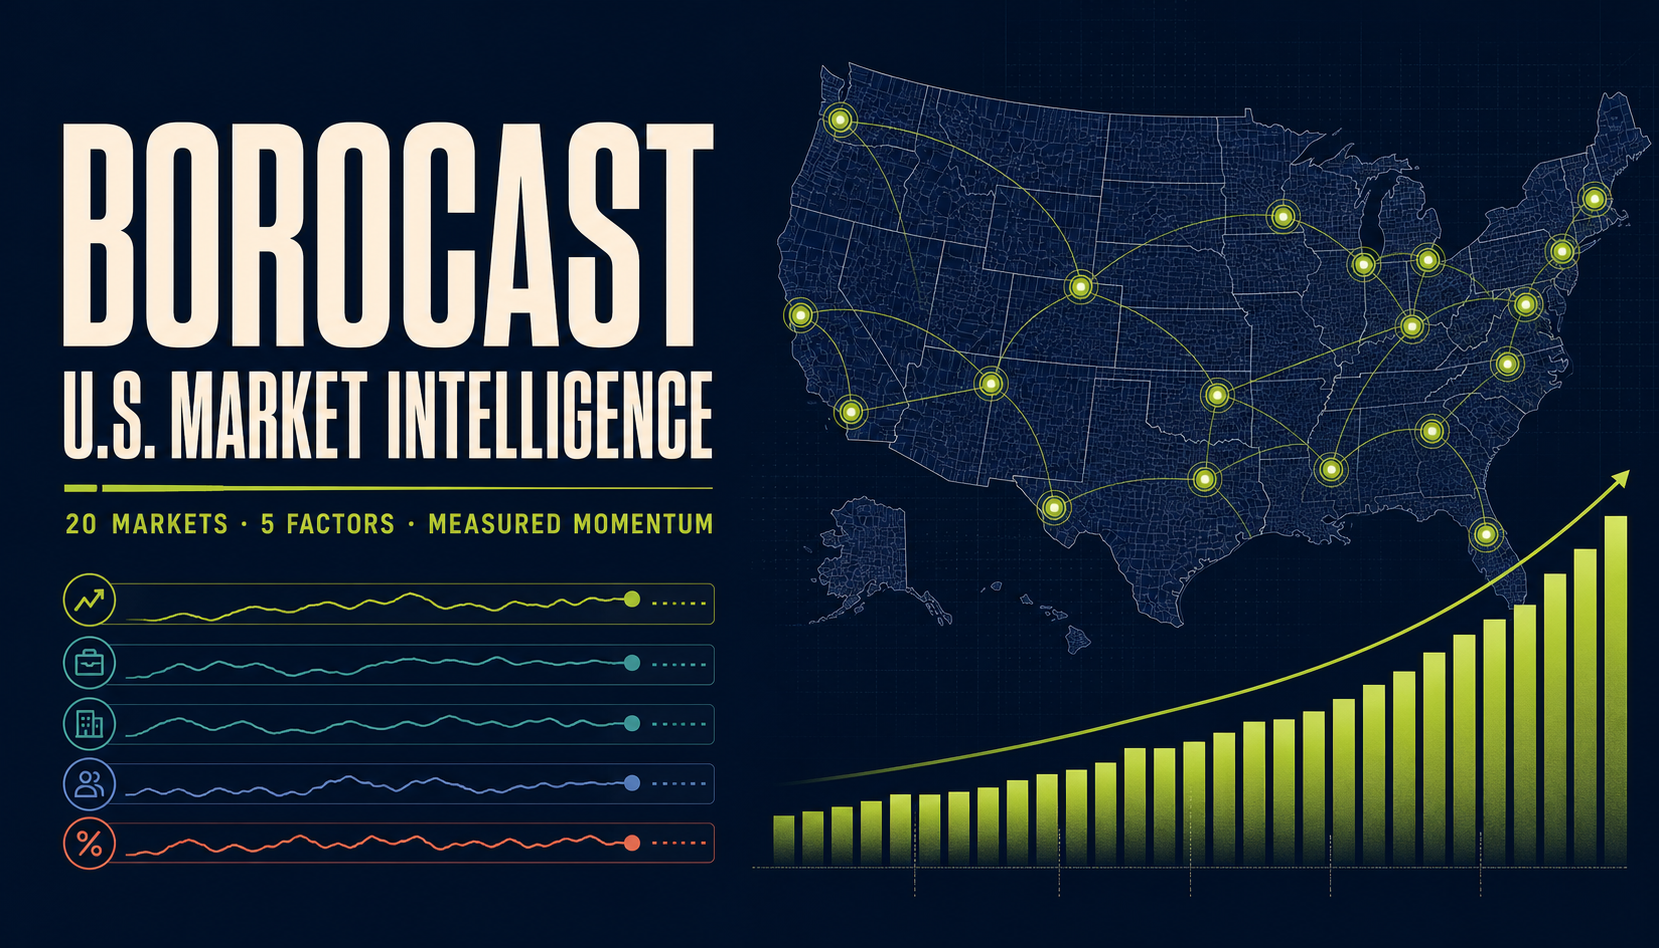
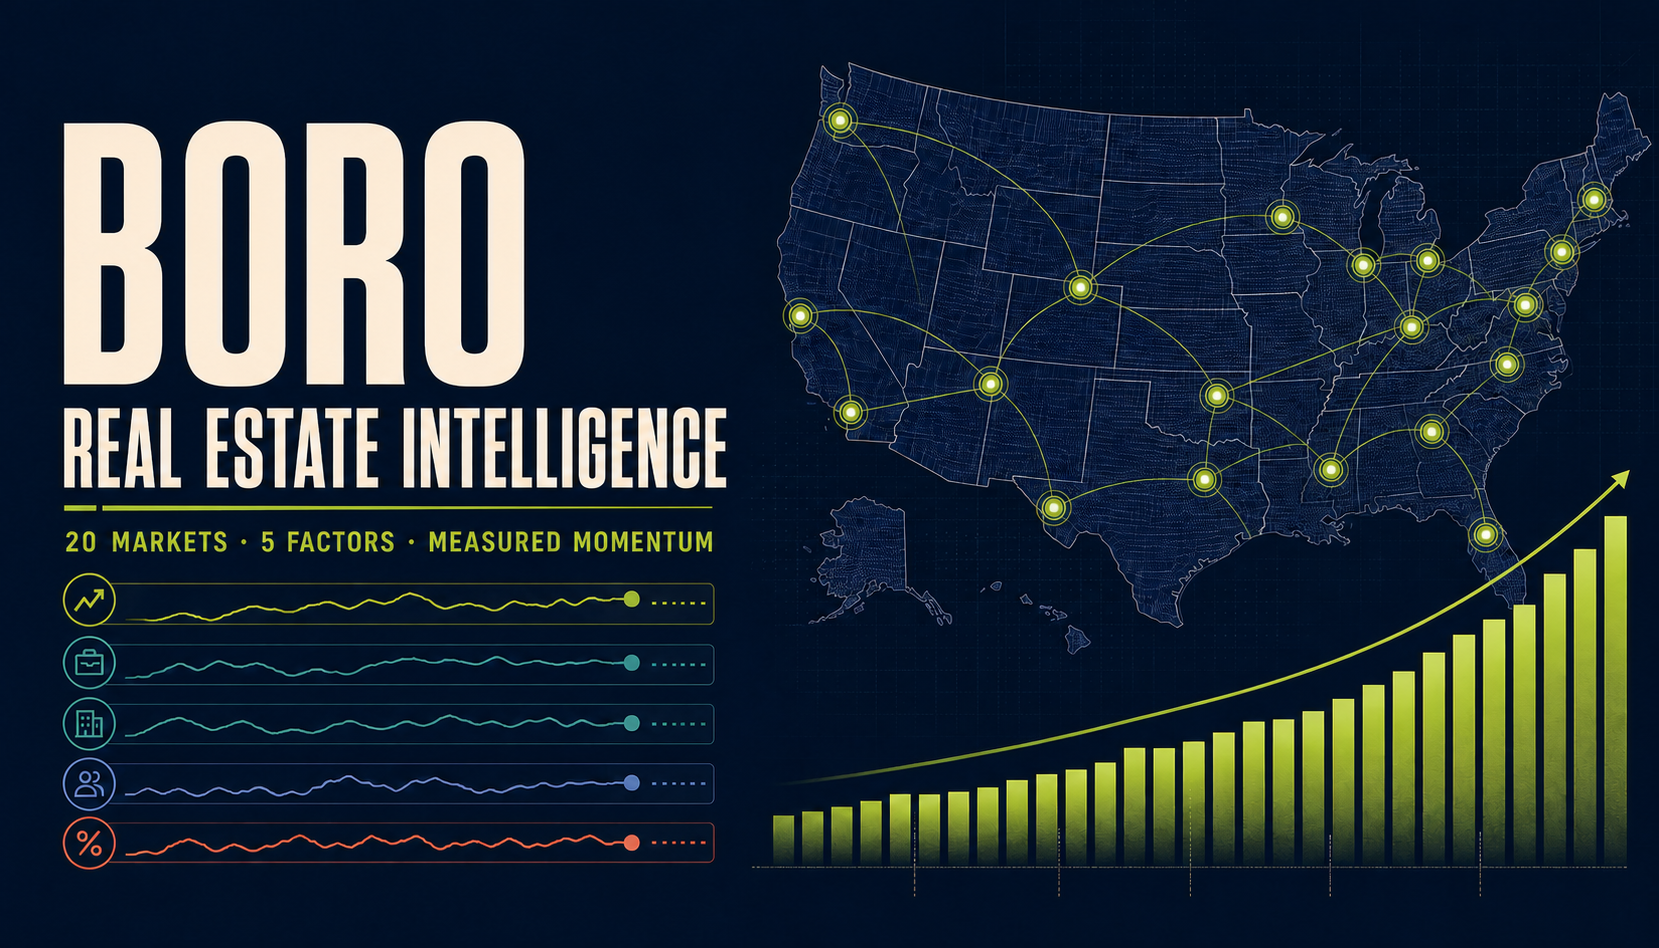
Rebrand product as BORO

diff --git a/worker/index.ts b/worker/index.ts
@@ -430,9 +430,9 @@ function safeEqual(left: string, right: string) {
 }
 
 function reviewLoginHtml() {
-  return `<!doctype html><html lang="en"><head><meta charset="utf-8"><meta name="viewport" content="width=device-width,initial-scale=1"><meta name="robots" content="noindex,nofollow"><title>Private review · Borocast</title><style>
+  return `<!doctype html><html lang="en"><head><meta charset="utf-8"><meta name="viewport" content="width=device-width,initial-scale=1"><meta name="robots" content="noindex,nofollow"><title>Private review · BORO</title><style>
   *{box-sizing:border-box}body{margin:0;min-height:100vh;display:grid;place-items:center;background:#071a38;color:#fff;font-family:Arial,sans-serif}main{width:min(92vw,470px);padding:48px;border:1px solid #304762;background:#0b2244;box-shadow:0 30px 90px #020b1b}i{display:block;width:12px;height:12px;margin-bottom:35px;border-radius:50%;background:#d9ff55;box-shadow:0 0 0 8px rgba(217,255,85,.08)}span{color:#70dfcc;font-size:10px;font-weight:900;letter-spacing:.13em}h1{margin:15px 0 16px;font-size:42px;line-height:.95;letter-spacing:-.055em}p{margin:0 0 28px;color:#a7b6c9;font-size:13px;line-height:1.65}label{display:block;color:#8fa0b6;font-size:9px;font-weight:900;letter-spacing:.08em;text-transform:uppercase}input{width:100%;height:50px;margin:9px 0 12px;padding:0 14px;border:1px solid #405674;background:#071a38;color:white;font:inherit;outline:0}input:focus{border-color:#d9ff55}button{width:100%;height:50px;border:0;background:#d9ff55;color:#071a38;font-size:10px;font-weight:900;letter-spacing:.08em;text-transform:uppercase}button:disabled{opacity:.6}b{display:block;min-height:16px;margin-top:14px;color:#ff958d;font-size:10px}@media(max-width:520px){main{padding:35px 26px}h1{font-size:36px}}
-  </style></head><body><main><i></i><span>BOROCAST · INVITED REVIEW</span><h1>Private B-school<br>MVP review</h1><p>Enter the shared review password to explore the market-intelligence workbench and leave structured feedback.</p><form><label for="password">Review password</label><input id="password" name="password" type="password" autocomplete="current-password" autofocus required><button>Enter private MVP →</button><b role="alert"></b></form></main><script>
+  </style></head><body><main><i></i><span>BORO · INVITED REVIEW</span><h1>Private B-school<br>MVP review</h1><p>Enter the shared review password to explore the real estate intelligence workbench and leave structured feedback.</p><form><label for="password">Review password</label><input id="password" name="password" type="password" autocomplete="current-password" autofocus required><button>Enter private MVP →</button><b role="alert"></b></form></main><script>
   const form=document.querySelector('form'),button=document.querySelector('button'),error=document.querySelector('b');form.addEventListener('submit',async(event)=>{event.preventDefault();button.disabled=true;error.textContent='';try{const response=await fetch('/api/review/login',{method:'POST',headers:{'Content-Type':'application/json'},body:JSON.stringify({password:form.password.value})});const result=await response.json();if(!response.ok)throw new Error(result.error||'Could not sign in.');location.reload()}catch(reason){error.textContent=reason.message||'Could not sign in.';button.disabled=false}});
   </script></body></html>`;
 }
@@ -788,7 +788,7 @@ const worker = {
       if (!address1 || !address2) return Response.json({ error: "address1 and address2 are required" }, { status: 400 });
       try {
         const property = await fetchAttomProperty(env.ATTOM_API_KEY, address1, address2);
-        return Response.json({ provider: "ATTOM", retrievedAt: new Date().toISOString(), property, use: "Independent vendor cross-check. Borocast does not substitute ATTOM's AVM for its public-record anchors or average correlated estimates blindly." }, { headers: { "Cache-Control": "private, no-store" } });
+        return Response.json({ provider: "ATTOM", retrievedAt: new Date().toISOString(), property, use: "Independent vendor cross-check. BORO does not substitute ATTOM's AVM for its public-record anchors or average correlated estimates blindly." }, { headers: { "Cache-Control": "private, no-store" } });
       } catch (error) {
         return Response.json({ error: error instanceof Error ? error.message : "ATTOM property not found" }, { status: 502, headers: { "Cache-Control": "private, no-store" } });
       }
@@ -816,7 +816,7 @@ const worker = {
         }
       }));
       const matched = records.filter((record) => record.status === "matched").length;
-      return Response.json({ provider: "ATTOM", retrievedAt: new Date().toISOString(), marketIds, requested: records.length, matched, failed: records.length - matched, records, boundary: "This audit measures vendor availability and agreement. It does not retrain or average into the Borocast public-record model." }, { headers: { "Cache-Control": "private, no-store" } });
+      return Response.json({ provider: "ATTOM", retrievedAt: new Date().toISOString(), marketIds, requested: records.length, matched, failed: records.length - matched, records, boundary: "This audit measures vendor availability and agreement. It does not retrain or average into the BORO public-record model." }, { headers: { "Cache-Control": "private, no-store" } });
     }
 
     if (url.pathname === "/api/public-safety/local") {

diff --git a/app/review-repository/FeedbackRepository.tsx b/app/review-repository/FeedbackRepository.tsx
@@ -95,12 +95,12 @@ export function FeedbackRepository({ ownerEmail }: { ownerEmail: string }) {
   const features = useMemo(() => Array.from(new Set(repository?.entries.map((entry) => entry.featureArea) ?? [])).sort(), [repository]);
   const visible = useMemo(() => (repository?.entries ?? []).filter((entry) => (bucket === "all" || entry.failureModes.includes(bucket)) && (statusFilter === "all" || entry.triageStatus === statusFilter) && (featureFilter === "all" || entry.featureArea === featureFilter)), [repository, bucket, statusFilter, featureFilter]);
 
-  if (access === "loading") return <main className="repository-lock"><span>BOROCAST · OWNER REPOSITORY</span><h1>Loading feedback…</h1></main>;
-  if (access === "locked") return <main className="repository-lock"><span>BOROCAST · OWNER REPOSITORY</span><h1>Identity verified. Complete step two.</h1><p>Signed in as {ownerEmail}. Enter the reset owner password to view reviewer identities, comments and triage status.</p><form onSubmit={unlock}><label htmlFor="owner-password">Owner password · step 2 of 2</label><input id="owner-password" name="password" type="password" autoComplete="current-password" required /><button>Open repository →</button><b role="alert">{message}</b></form><Link href="/">← Back to Borocast</Link></main>;
+  if (access === "loading") return <main className="repository-lock"><span>BORO · OWNER REPOSITORY</span><h1>Loading feedback…</h1></main>;
+  if (access === "locked") return <main className="repository-lock"><span>BORO · OWNER REPOSITORY</span><h1>Identity verified. Complete step two.</h1><p>Signed in as {ownerEmail}. Enter the reset owner password to view reviewer identities, comments and triage status.</p><form onSubmit={unlock}><label htmlFor="owner-password">Owner password · step 2 of 2</label><input id="owner-password" name="password" type="password" autoComplete="current-password" required /><button>Open repository →</button><b role="alert">{message}</b></form><Link href="/">← Back to BORO</Link></main>;
   if (access === "error" || !repository) return <main className="repository-lock"><h1>Repository unavailable.</h1><p>{message}</p><button onClick={() => void load()}>Try again</button></main>;
 
   return <main className="feedback-repository">
-    <header><div><Link href="/">BOROCAST</Link><span>Owner workspace</span></div><button onClick={() => void load()}>Refresh</button></header>
+    <header><div><Link href="/">BORO</Link><span>Owner workspace</span></div><button onClick={() => void load()}>Refresh</button></header>
     <section className="repository-hero"><div><p>FEEDBACK REPOSITORY · FAILURE-MODE TRIAGE</p><h1>Turn comments into<br />testable decisions.</h1></div><aside><b>Model change rule</b><p>Qualitative feedback creates a review candidate—not a score change. Reproduce the issue, audit the affected data, define a measurable hypothesis, and backtest before changing weights or rankings.</p></aside></section>
     <section className="repository-metrics"><article><span>Total responses</span><b>{repository.summary.total}</b></article><article><span>Usefulness</span><b>{repository.summary.averageUsefulness.toFixed(1)}<i>/5</i></b></article><article><span>Evidence trust</span><b>{repository.summary.averageTrust.toFixed(1)}<i>/5</i></b></article><article><span>Workflow clarity</span><b>{repository.summary.averageClarity.toFixed(1)}<i>/5</i></b></article><article className="attention"><span>Model-review candidates</span><b>{repository.summary.modelReviewCount}</b></article><article><span>Would use stronger version</span><b>{repository.summary.wouldUseCount}</b></article></section>
     <section className="failure-buckets"><div className="repository-title"><div><p>FAILURE-MODE BUCKETS</p><h2>Where confidence breaks.</h2></div><span>Click a bucket to filter the review queue.</span></div><div><button className={bucket === "all" ? "active" : ""} onClick={() => setBucket("all")}><b>{repository.summary.total}</b><span>All feedback</span><small>Full repository</small></button>{repository.buckets.map((item) => <button key={item.id} className={bucket === item.id ? "active" : ""} onClick={() => setBucket(item.id)}><b>{item.count}</b><span>{item.label}</span><small>{label(item.lane)}</small></button>)}</div></section>

diff --git a/app/AttomMarketAudit.tsx b/app/AttomMarketAudit.tsx
@@ -66,8 +66,8 @@ export function AttomMarketAudit() {
   })) : [];
 
   return <div className="attom-audit">
-    <div className="attom-audit-head"><div><p className="eyebrow">ATTOM MARKET AUDIT · SIX CONTROL ADDRESSES</p><h3>Test the vendor against our evidence—not in place of it.</h3><p>Two qualified public records per live market are checked for address match, AVM availability, range overlap and disagreement with the Borocast model.</p></div><button onClick={runAudit} disabled={!connected || loading}>{loading ? "Auditing six properties…" : result ? "Run audit again" : connected ? "Launch ATTOM analysis" : "ATTOM key required"}</button></div>
+    <div className="attom-audit-head"><div><p className="eyebrow">ATTOM MARKET AUDIT · SIX CONTROL ADDRESSES</p><h3>Test the vendor against our evidence—not in place of it.</h3><p>Two qualified public records per live market are checked for address match, AVM availability, range overlap and disagreement with the BORO model.</p></div><button onClick={runAudit} disabled={!connected || loading}>{loading ? "Auditing six properties…" : result ? "Run audit again" : connected ? "Launch ATTOM analysis" : "ATTOM key required"}</button></div>
     {error && <p className="attom-error">{error}</p>}
-    {result && <><div className="attom-audit-summary"><div><span>Matched</span><b>{result.matched}/{result.requested}</b></div><div><span>Failed</span><b>{result.failed}</b></div><div><span>Range agreement</span><b>{result.matched ? Math.round(result.records.filter((record) => record.rangeOverlap).length / result.matched * 100) : 0}%</b></div><small>Retrieved {new Date(result.retrievedAt).toLocaleString()} · live vendor responses are session evidence and are not written into the public-record model.</small></div><div className="attom-audit-markets">{byMarket.map((market) => <article key={market.marketId}><span>{market.label}</span>{market.rows.map((record) => <div key={record.id} className={record.status}><b>{record.address}</b><strong>{record.status === "matched" ? money(record.attomValue) : "No match"}</strong><small>{record.status === "matched" ? `${record.deltaPct && record.deltaPct > 0 ? "+" : ""}${record.deltaPct ?? "—"}% vs. Borocast · ${record.rangeOverlap ? "ranges overlap" : "ranges disagree"}` : record.error}</small></div>)}</article>)}</div></>}
+    {result && <><div className="attom-audit-summary"><div><span>Matched</span><b>{result.matched}/{result.requested}</b></div><div><span>Failed</span><b>{result.failed}</b></div><div><span>Range agreement</span><b>{result.matched ? Math.round(result.records.filter((record) => record.rangeOverlap).length / result.matched * 100) : 0}%</b></div><small>Retrieved {new Date(result.retrievedAt).toLocaleString()} · live vendor responses are session evidence and are not written into the public-record model.</small></div><div className="attom-audit-markets">{byMarket.map((market) => <article key={market.marketId}><span>{market.label}</span>{market.rows.map((record) => <div key={record.id} className={record.status}><b>{record.address}</b><strong>{record.status === "matched" ? money(record.attomValue) : "No match"}</strong><small>{record.status === "matched" ? `${record.deltaPct && record.deltaPct > 0 ? "+" : ""}${record.deltaPct ?? "—"}% vs. BORO · ${record.rangeOverlap ? "ranges overlap" : "ranges disagree"}` : record.error}</small></div>)}</article>)}</div></>}
   </div>;
 }

diff --git a/app/page.tsx b/app/page.tsx
@@ -213,8 +213,8 @@ export default function Home() {
   return (
     <main id="top">
       <header className="topbar product-topbar">
-        <a className="brand" href="#overview" aria-label="Borocast home" onClick={() => setActiveView("overview")}><span>BORO</span>CAST</a>
-        <span className="product-label">Market intelligence</span>
+        <a className="brand" href="#overview" aria-label="BORO home" onClick={() => setActiveView("overview")}><span>BORO</span></a>
+        <span className="product-label">Real Estate Intelligence</span>
         <label className="global-market-picker"><span>Market</span><select value={market.id} onChange={(event) => chooseMarket(event.target.value)}>{MARKET_EXPLORERS.map((item) => <option key={item.id} value={item.id}>{item.metro.short}</option>)}</select></label>
         <nav className="product-tabs" aria-label="Product features">{PRODUCT_TABS.map((tab) => <button key={tab.id} aria-pressed={activeView === tab.id} className={activeView === tab.id ? "active" : ""} onClick={() => selectView(tab.id)}>{tab.label}</button>)}</nav>
       </header>
@@ -238,7 +238,7 @@ export default function Home() {
       </section>
 
       <section className="product-overview" id="overview">
-        <div className="section-title"><div><p className="eyebrow">PRODUCT OVERVIEW · FROM SIGNAL TO MEMO</p><h2>One workflow.<br />Five explicit decisions.</h2></div><p>Borocast is an evidence-first screening and underwriting workbench. It helps an investor narrow markets, inspect local fundamentals, challenge a property value, model an actual deal and document why it should advance—or stop.</p></div>
+        <div className="section-title"><div><p className="eyebrow">PRODUCT OVERVIEW · FROM SIGNAL TO MEMO</p><h2>One workflow.<br />Five explicit decisions.</h2></div><p>BORO is an evidence-first screening and underwriting workbench. It helps an investor narrow markets, inspect local fundamentals, challenge a property value, model an actual deal and document why it should advance—or stop.</p></div>
         <div className="product-journey">
           <article><span>01</span><b>Configure</b><p>Choose a growth, income, balanced or value-add lens. The active weights and hurdles stay visible.</p><a href="#workspace">Set the market lens →</a></article>
           <article><span>02</span><b>Rank</b><p>Compare 97 tract clusters on demographic, economic, education, housing and measured price momentum.</p><a href="#leaders">Review local leaders →</a></article>
@@ -407,7 +407,7 @@ export default function Home() {
         <ReviewFeedback />
       </div>
 
-      <footer><a className="brand" href="#top"><span>BORO</span>CAST</a><p>Public-data market intelligence · ACS 2020–2024 · FHFA through {PRICING_HISTORY_META.latestPeriod}</p><span>Screening signal · not investment advice</span></footer>
+      <footer><a className="brand" href="#top"><span>BORO</span></a><p>Public-data real estate intelligence · ACS 2020–2024 · FHFA through {PRICING_HISTORY_META.latestPeriod}</p><span>Screening signal · not investment advice</span></footer>
     </main>
   );
 }

diff --git a/app/AttomConnector.tsx b/app/AttomConnector.tsx
@@ -54,7 +54,7 @@ export function AttomConnector() {
 
   return <div className="attom-console">
     <div className="attom-intro"><div><span className={`attom-light ${connected ? "connected" : ""}`} />{checked ? connected ? "ATTOM CONNECTED" : "ADAPTER READY · KEY REQUIRED" : "CHECKING CONNECTION"}</div><h3>Bring an independent AVM into the evidence stack.</h3><p>The server-side adapter requests ATTOM property facts, assessment, recorded sale and AVM range. Owner, mortgage and mailing fields are excluded. The API key never reaches the browser.</p><a href="https://api.developer.attomdata.com/" target="_blank" rel="noreferrer">Create or open an ATTOM developer account →</a></div>
-    <div className="attom-form"><label><span>Street address</span><input value={address1} onChange={(event) => setAddress1(event.target.value)} placeholder="123 Main St" /></label><label><span>City, state, ZIP</span><input value={address2} onChange={(event) => setAddress2(event.target.value)} placeholder="Raleigh, NC 27601" /></label><button onClick={lookup} disabled={!connected || !address1 || !address2 || loading}>{loading ? "Checking…" : connected ? "Cross-check property" : "Add ATTOM key to activate"}</button><small>One lookup uses the ATTOM AVM Detail endpoint. Results remain a separate vendor signal and are not silently averaged into Borocast.</small></div>
+    <div className="attom-form"><label><span>Street address</span><input value={address1} onChange={(event) => setAddress1(event.target.value)} placeholder="123 Main St" /></label><label><span>City, state, ZIP</span><input value={address2} onChange={(event) => setAddress2(event.target.value)} placeholder="Raleigh, NC 27601" /></label><button onClick={lookup} disabled={!connected || !address1 || !address2 || loading}>{loading ? "Checking…" : connected ? "Cross-check property" : "Add ATTOM key to activate"}</button><small>One lookup uses the ATTOM AVM Detail endpoint. Results remain a separate vendor signal and are not silently averaged into BORO.</small></div>
     {error && <p className="attom-error">{error}</p>}
     {result && <div className="attom-result"><div><span>ATTOM address</span><b>{result.property.address}</b><small>{result.property.type || "Property"} · {result.property.livingSize?.toLocaleString() || "—"} sf · built {result.property.yearBuilt || "—"}</small></div><div><span>AVM</span><b>{money(result.property.avm.value)}</b><small>{money(result.property.avm.low)}–{money(result.property.avm.high)} · confidence {result.property.avm.confidence ?? "—"}</small></div><div><span>Public facts</span><b>{money(result.property.assessment.market)}</b><small>Market assessment · last sale {money(result.property.sale.amount)} on {result.property.sale.date || "—"}</small></div></div>}
   </div>;

diff --git a/app/layout.tsx b/app/layout.tsx
@@ -4,11 +4,11 @@ import "./sources.css";
 
 export const metadata: Metadata = {
   metadataBase: new URL("https://borocast-nyc-outlook.nicholas-pham.chatgpt.site"),
-  title: "Borocast — U.S. Market Intelligence",
+  title: "BORO — Real Estate Intelligence",
   description: "Evidence-first real estate investment workbench across 20 U.S. markets: rank local areas, audit model quality, cross-check property values and underwrite deals.",
   icons: { icon: "/favicon.svg", shortcut: "/favicon.svg" },
-  openGraph: { title: "Borocast — U.S. Market Intelligence", description: "Rank local areas, audit valuation evidence and turn an actual deal into an explicit investment decision.", images: [{ url: "/og-pricing.png", width: 1659, height: 948 }] },
-  twitter: { card: "summary_large_image", title: "Borocast — U.S. Market Intelligence", description: "Rank local areas, audit valuation evidence and underwrite an actual deal.", images: ["/og-pricing.png"] },
+  openGraph: { title: "BORO — Real Estate Intelligence", description: "Rank local areas, audit valuation evidence and turn an actual deal into an explicit investment decision.", images: [{ url: "/og-pricing.png", width: 1659, height: 948 }] },
+  twitter: { card: "summary_large_image", title: "BORO — Real Estate Intelligence", description: "Rank local areas, audit valuation evidence and underwrite an actual deal.", images: ["/og-pricing.png"] },
 };
 
 export default function RootLayout({ children }: Readonly<{ children: React.ReactNode }>) {

diff --git a/app/review-repository/page.tsx b/app/review-repository/page.tsx
@@ -10,7 +10,7 @@ export default async function ReviewRepositoryPage() {
   const runtimeEnv = env as unknown as { FEEDBACK_ADMIN_EMAIL?: string };
   const allowedEmail = runtimeEnv.FEEDBACK_ADMIN_EMAIL?.trim().toLowerCase();
   if (!allowedEmail || user.email.trim().toLowerCase() !== allowedEmail) {
-    return <main className="repository-lock"><span>BOROCAST · OWNER REPOSITORY</span><h1>This ChatGPT account is not authorized.</h1><p>Sign out, then use the owner account named in the private access email.</p><Link href={chatGPTSignOutPath("/review-repository")}>Sign out and try another account →</Link></main>;
+    return <main className="repository-lock"><span>BORO · OWNER REPOSITORY</span><h1>This ChatGPT account is not authorized.</h1><p>Sign out, then use the owner account named in the private access email.</p><Link href={chatGPTSignOutPath("/review-repository")}>Sign out and try another account →</Link></main>;
   }
   return <FeedbackRepository ownerEmail={user.email} />;
 }

diff --git a/app/ReviewFeedback.tsx b/app/ReviewFeedback.tsx
@@ -122,7 +122,7 @@ export function ReviewFeedback() {
           <label><span>Anything else? <i>optional</i></span><textarea name="notes" maxLength={2500} placeholder="Open notes…" /></label>
         </div>
         <div className="review-submit">
-          <p>Your response is visible only to the Borocast team.</p>
+          <p>Your response is visible only to the BORO team.</p>
           {status === "error" && <b role="alert">{message}</b>}
           <button type="submit" disabled={status === "sending"}>{status === "sending" ? "Saving…" : "Send private feedback →"}</button>
         </div>
